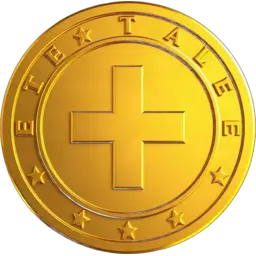
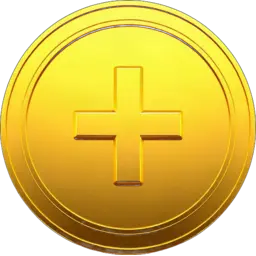
Cadeaux : invite (vrai personnage) + pièce bonus propre (#584)
* Logos Action premium : dessins moins enfantins (fond sombre + objet brillant)

Refonte des logos des jeux Action (cat-skill6.js) dans un style premium
cohérent — fond radial sombre, objet central brillant avec reflet et
ombre douce, dégradés uniques par icône — au lieu des dessins plats et
colorés qui faisaient trop enfantin.

Jeux d'origine retouchés : Maze Muncher, Bubble Pop, Gunship, Dogfight,
Commando, Fruit Catch, Sky Hopper, Rope Swing, Beat Tap, Road Race,
Piano Keys, 2048, Neon Pong, Mini Golf. Lot véhicules/scènes : Dune
Buggy, Snow Dash, Kayak Rush, City Scoot, Shark Bay, Copter Flight,
Paper Plane (en plus des lots précédents déjà en premium).

Cache-bust MOD_V 3306 -> 3308, casino.js?v=3308, pages par langue
régénérées. Simulations inchangées (sim-lock OK), 1172 tests OK.

Claude-Session: https://claude.ai/code/session_01WCUtdWARkyETTthfhDNrqD

* Casino : vrai logo premium pour les 28 jeux « révèle le palier » (fin du logo en double)

Les 28 jeux casc4 (Treasure Chest, Fortune Wheel, Golden Egg, Mystery Box,
Crystal Orb, Diamond Vault, Dice Roll, Royal Card, Genie Lamp, Jackpot Bell,
Oyster Pearl, Crown Jewel, Geode Gem, Money Tree, Lottery Ball, Dragon Coin,
Golden Firework, Treasure Map, Gold Bars, Poker Chip, Lucky Clover, Ruby Heart,
Money Bag, Horseshoes, Diamond Ring, Gold Trophy, Sun Medallion, Gem Trio)
n'avaient pas de logo dans cat-casc.js : ils retombaient tous sur le logo
[…]

diff --git a/js/live-ui.js b/js/live-ui.js
@@ -218,7 +218,7 @@
   // v3401 (propriétaire) — vrais logos 3D réalistes (fal.ai) pour le menu Social, au lieu des dessins SVG.
   var SOC_IMG = { duel: 1, news: 1, friends: 1, groups: 1, chat: 1, myid: 1, levels: 1, missions: 1, quiz: 1, record: 1, stats: 1, badges: 1, learn: 1, gifts: 1, send: 1, wheel: 1, target: 1, bonus: 1, bonus2: 1, jauge: 1, invite: 1 };
   D6.LiveIcon = function (k, cls) {
-    if (SOC_IMG[k]) return '<img class="li-ico li-img' + (cls ? ' ' + cls : '') + '" src="img/social/' + k + '.webp?v=3401" alt="" loading="lazy" draggable="false">';
+    if (SOC_IMG[k]) return '<img class="li-ico li-img' + (cls ? ' ' + cls : '') + '" src="img/social/' + k + '.webp?v=3403" alt="" loading="lazy" draggable="false">';
     return k === 'send' ? sendLogo(cls) : icon(k, cls);
   };
   D6.LiveColor = color;

diff --git a/ar/index.html b/ar/index.html
@@ -2428,7 +2428,7 @@ w.innerHTML=h;}catch(e){}})();</script>  <script>
   <script src="/js/push.js?v=3130"></script>
   <script src="/js/app.js?v=3200"></script>
   <script src="/js/portal.js?v=3341"></script>
-  <script src="/js/live-ui.js?v=3402"></script>
+  <script src="/js/live-ui.js?v=3403"></script>
   <script src="/js/live.js?v=3395"></script>
   <script src="/js/live-quiz-data.js?v=2790"></script>
   <script src="/js/live-fun.js?v=3160"></script>

diff --git a/de/index.html b/de/index.html
@@ -2428,7 +2428,7 @@ w.innerHTML=h;}catch(e){}})();</script>  <script>
   <script src="/js/push.js?v=3130"></script>
   <script src="/js/app.js?v=3200"></script>
   <script src="/js/portal.js?v=3341"></script>
-  <script src="/js/live-ui.js?v=3402"></script>
+  <script src="/js/live-ui.js?v=3403"></script>
   <script src="/js/live.js?v=3395"></script>
   <script src="/js/live-quiz-data.js?v=2790"></script>
   <script src="/js/live-fun.js?v=3160"></script>

diff --git a/en/index.html b/en/index.html
@@ -2428,7 +2428,7 @@ w.innerHTML=h;}catch(e){}})();</script>  <script>
   <script src="/js/push.js?v=3130"></script>
   <script src="/js/app.js?v=3200"></script>
   <script src="/js/portal.js?v=3341"></script>
-  <script src="/js/live-ui.js?v=3402"></script>
+  <script src="/js/live-ui.js?v=3403"></script>
   <script src="/js/live.js?v=3395"></script>
   <script src="/js/live-quiz-data.js?v=2790"></script>
   <script src="/js/live-fun.js?v=3160"></script>

diff --git a/es/index.html b/es/index.html
@@ -2428,7 +2428,7 @@ w.innerHTML=h;}catch(e){}})();</script>  <script>
   <script src="/js/push.js?v=3130"></script>
   <script src="/js/app.js?v=3200"></script>
   <script src="/js/portal.js?v=3341"></script>
-  <script src="/js/live-ui.js?v=3402"></script>
+  <script src="/js/live-ui.js?v=3403"></script>
   <script src="/js/live.js?v=3395"></script>
   <script src="/js/live-quiz-data.js?v=2790"></script>
   <script src="/js/live-fun.js?v=3160"></script>

diff --git a/hi/index.html b/hi/index.html
@@ -2428,7 +2428,7 @@ w.innerHTML=h;}catch(e){}})();</script>  <script>
   <script src="/js/push.js?v=3130"></script>
   <script src="/js/app.js?v=3200"></script>
   <script src="/js/portal.js?v=3341"></script>
-  <script src="/js/live-ui.js?v=3402"></script>
+  <script src="/js/live-ui.js?v=3403"></script>
   <script src="/js/live.js?v=3395"></script>
   <script src="/js/live-quiz-data.js?v=2790"></script>
   <script src="/js/live-fun.js?v=3160"></script>

diff --git a/id/index.html b/id/index.html
@@ -2428,7 +2428,7 @@ w.innerHTML=h;}catch(e){}})();</script>  <script>
   <script src="/js/push.js?v=3130"></script>
   <script src="/js/app.js?v=3200"></script>
   <script src="/js/portal.js?v=3341"></script>
-  <script src="/js/live-ui.js?v=3402"></script>
+  <script src="/js/live-ui.js?v=3403"></script>
   <script src="/js/live.js?v=3395"></script>
   <script src="/js/live-quiz-data.js?v=2790"></script>
   <script src="/js/live-fun.js?v=3160"></script>

diff --git a/pt/index.html b/pt/index.html
@@ -2428,7 +2428,7 @@ w.innerHTML=h;}catch(e){}})();</script>  <script>
   <script src="/js/push.js?v=3130"></script>
   <script src="/js/app.js?v=3200"></script>
   <script src="/js/portal.js?v=3341"></script>
-  <script src="/js/live-ui.js?v=3402"></script>
+  <script src="/js/live-ui.js?v=3403"></script>
   <script src="/js/live.js?v=3395"></script>
   <script src="/js/live-quiz-data.js?v=2790"></script>
   <script src="/js/live-fun.js?v=3160"></script>

diff --git a/ru/index.html b/ru/index.html
@@ -2428,7 +2428,7 @@ w.innerHTML=h;}catch(e){}})();</script>  <script>
   <script src="/js/push.js?v=3130"></script>
   <script src="/js/app.js?v=3200"></script>
   <script src="/js/portal.js?v=3341"></script>
-  <script src="/js/live-ui.js?v=3402"></script>
+  <script src="/js/live-ui.js?v=3403"></script>
   <script src="/js/live.js?v=3395"></script>
   <script src="/js/live-quiz-data.js?v=2790"></script>
   <script src="/js/live-fun.js?v=3160"></script>

diff --git a/tr/index.html b/tr/index.html
@@ -2428,7 +2428,7 @@ w.innerHTML=h;}catch(e){}})();</script>  <script>
   <script src="/js/push.js?v=3130"></script>
   <script src="/js/app.js?v=3200"></script>
   <script src="/js/portal.js?v=3341"></script>
-  <script src="/js/live-ui.js?v=3402"></script>
+  <script src="/js/live-ui.js?v=3403"></script>
   <script src="/js/live.js?v=3395"></script>
   <script src="/js/live-quiz-data.js?v=2790"></script>
   <script src="/js/live-fun.js?v=3160"></script>

diff --git a/vi/index.html b/vi/index.html
@@ -2428,7 +2428,7 @@ w.innerHTML=h;}catch(e){}})();</script>  <script>
   <script src="/js/push.js?v=3130"></script>
   <script src="/js/app.js?v=3200"></script>
   <script src="/js/portal.js?v=3341"></script>
-  <script src="/js/live-ui.js?v=3402"></script>
+  <script src="/js/live-ui.js?v=3403"></script>
   <script src="/js/live.js?v=3395"></script>
   <script src="/js/live-quiz-data.js?v=2790"></script>
   <script src="/js/live-fun.js?v=3160"></script>

diff --git a/zh/index.html b/zh/index.html
@@ -2428,7 +2428,7 @@ w.innerHTML=h;}catch(e){}})();</script>  <script>
   <script src="/js/push.js?v=3130"></script>
   <script src="/js/app.js?v=3200"></script>
   <script src="/js/portal.js?v=3341"></script>
-  <script src="/js/live-ui.js?v=3402"></script>
+  <script src="/js/live-ui.js?v=3403"></script>
   <script src="/js/live.js?v=3395"></script>
   <script src="/js/live-quiz-data.js?v=2790"></script>
   <script src="/js/live-fun.js?v=3160"></script>
